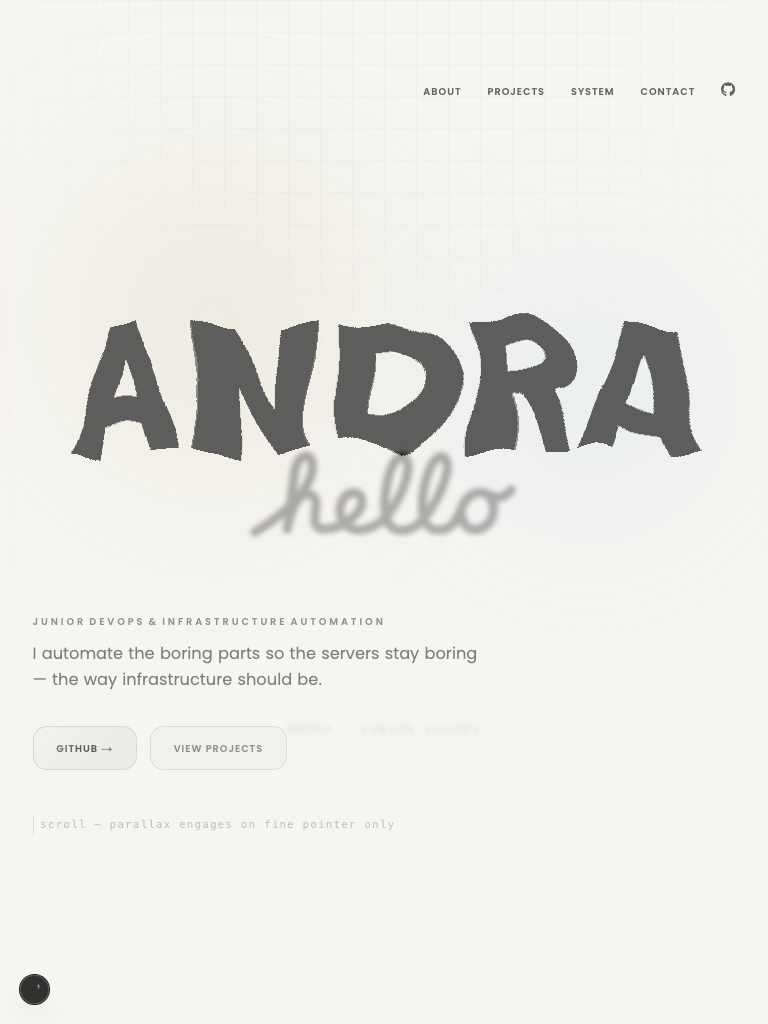
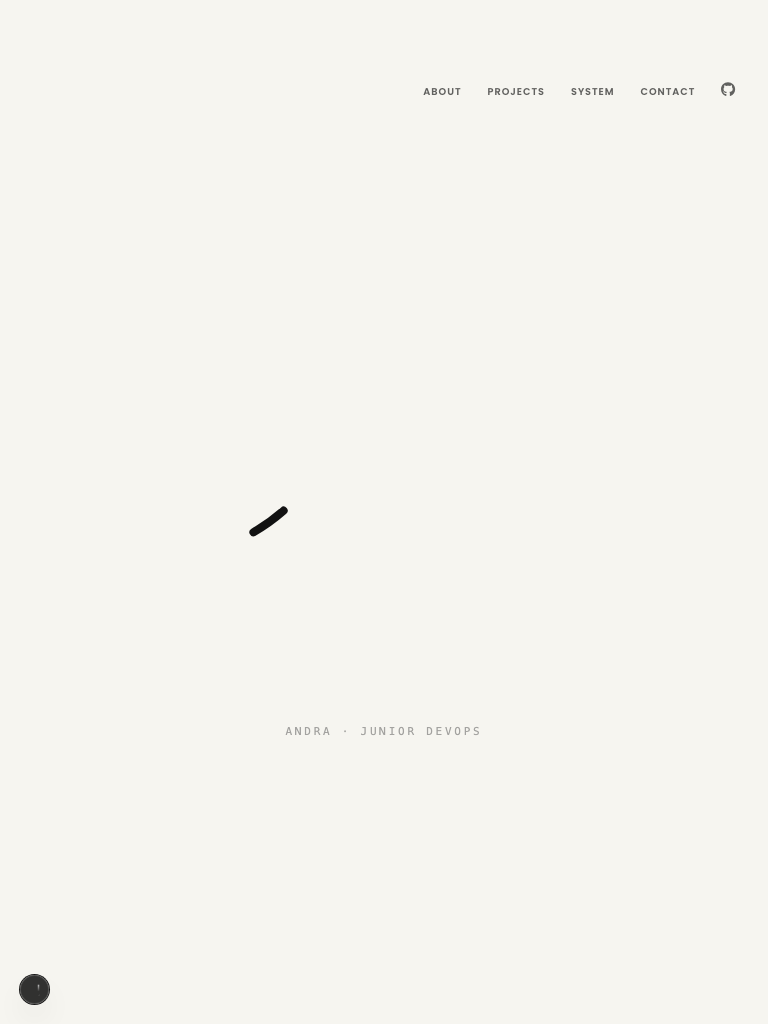
fix: ensure Apple hello animation plays on every page load with native SMIL path

diff --git a/components/AppleHelloLoader.tsx b/components/AppleHelloLoader.tsx
@@ -1,6 +1,6 @@
 "use client";
 
-import React, { useEffect, useState } from "react";
+import React, { useEffect, useState, useCallback } from "react";
 import { motion, AnimatePresence, useReducedMotion } from "framer-motion";
 
 interface AppleHelloLoaderProps {
@@ -19,10 +19,10 @@ export default function AppleHelloLoader({
   const shouldReduceMotion = useReducedMotion();
   const [visible, setVisible] = useState(isLoading);
 
-  const handleFinish = () => {
+  const handleFinish = useCallback(() => {
     if (onComplete) onComplete();
     if (onFinish) onFinish();
-  };
+  }, [onComplete, onFinish]);
 
   useEffect(() => {
     if (!isLoading) {
@@ -31,14 +31,14 @@ export default function AppleHelloLoader({
     }
 
     setVisible(true);
-    // 1.4s stroke drawing + 0.4s dwell hold
-    const durationMs = shouldReduceMotion ? 150 : 1800;
+    // 2.2s total duration for calibrated Apple SMIL drawing + dwell
+    const durationMs = shouldReduceMotion ? 150 : 2200;
     const timer = setTimeout(() => {
       handleFinish();
     }, durationMs);
 
     return () => clearTimeout(timer);
-  }, [isLoading, shouldReduceMotion]);
+  }, [isLoading, shouldReduceMotion, handleFinish]);
 
   return (
     <AnimatePresence
@@ -46,6 +46,7 @@ export default function AppleHelloLoader({
       onExitComplete={() => {
         if (typeof document !== "undefined") {
           document.body.style.overflow = "unset";
+          document.documentElement.style.overflow = "unset";
         }
         if (onExitComplete) onExitComplete();
       }}
@@ -73,27 +74,65 @@ export default function AppleHelloLoader({
             >
               <g transform="matrix(1.087,0,0,1.087,-21.135,-19.235)" id="i1">
                 <g id="i2" transform="matrix(1,0,0,1,252,245.918)">
-                  <motion.path
+                  <path
                     data-testid="hello-path"
+                    strokeDasharray="0 100"
+                    pathLength="100"
                     d="M-145.66,43.747C-145.66,43.747,-86.107,10.264,-81.851,-26.162C-79.424,-46.943,-98.573,-44.137,-101.426,-23.013C-103.757,-5.755,-109.596,40.561,-109.596,40.561C-109.596,40.561,-103.979,-0.034,-85.851,1.753C-65.936,4.083,-91.979,40.05,-69,40.305C-48.573,40.532,-27.639,22.688,-26.873,10.943C-25.99,-2.599,-44.362,-4.886,-50.022,11.966C-55.226,27.461,-43.584,44.902,-23.54,40.581C7.341,33.922,22.483,-10.827,23.936,-26.077C25.467,-42.162,13.723,-43.694,6.574,-29.397C-0.104,-16.04,-11.245,37.085,12.958,41.583C41.809,46.944,64.277,-5.906,67.086,-23.779C69.802,-41.066,58.656,-45.952,50.234,-30.673C41.166,-14.223,27.843,44.077,59.937,41.326C86.746,39.028,76.916,2.264,102.898,-0.05C114.562,-1.088,119.386,9.92,118.532,21.029C117.638,32.646,106.66,42.475,95.809,40.943C85.898,39.544,80.838,25.973,83.425,17.072C86.617,6.094,96.662,0.12,102.898,-0.05C111.766,-0.29,116.234,5.327,124.149,5.199C131.179,5.086,138.27,-2.922,138.27,-2.922"
-                    stroke="currentColor"
-                    strokeWidth="10"
-                    strokeLinecap="round"
                     strokeLinejoin="round"
-                    initial={
-                      shouldReduceMotion
-                        ? { pathLength: 1, opacity: 1 }
-                        : { pathLength: 0, opacity: 0 }
-                    }
-                    animate={{ pathLength: 1, opacity: 1 }}
-                    transition={{
-                      pathLength: {
-                        duration: shouldReduceMotion ? 0.05 : 1.4,
-                        ease: [0.65, 0, 0.35, 1],
-                      },
-                      opacity: { duration: 0.2 },
-                    }}
-                  />
+                    strokeLinecap="round"
+                    strokeWidth="9"
+                    stroke="currentColor"
+                  >
+                    {!shouldReduceMotion && (
+                      <>
+                        <animate
+                          repeatCount="indefinite"
+                          attributeName="stroke-width"
+                          dur="2.2s"
+                          begin="0s"
+                          fill="freeze"
+                          values="9; 9; 10; 9; 9"
+                          keyTimes="0; 0.034722; 0.101389; 0.416667; 1"
+                          keySplines="0 0 1 1; 0.681 0 0.788 1; 0.059 0 0.118 1; 0 0 1 1"
+                          calcMode="spline"
+                        />
+                        <animate
+                          repeatCount="indefinite"
+                          attributeName="d"
+                          dur="2.2s"
+                          begin="0s"
+                          calcMode="spline"
+                          values="M-145.66,43.747C-145.66,43.747,-86.107,10.264,-81.851,-26.162C-79.424,-46.943,-98.573,-44.137,-101.426,-23.013C-103.757,-5.755,-109.596,40.561,-109.596,40.561C-109.596,40.561,-103.979,-0.034,-85.851,1.753C-65.936,4.083,-91.979,40.05,-69,40.305C-48.573,40.532,-27.639,22.688,-26.873,10.943C-25.99,-2.599,-44.362,-4.886,-50.022,11.966C-55.226,27.461,-43.584,44.902,-23.54,40.581C7.341,33.922,22.483,-10.827,23.936,-26.077C25.467,-42.162,13.723,-43.694,6.574,-29.397C-0.104,-16.04,-11.245,37.085,12.958,41.583C41.809,46.944,64.277,-5.906,67.086,-23.779C69.802,-41.066,58.656,-45.952,50.234,-30.673C41.166,-14.223,27.843,44.077,59.937,41.326C86.746,39.028,76.916,2.264,102.898,-0.05C114.562,-1.088,119.386,9.92,118.532,21.029C117.638,32.646,106.66,42.475,95.809,40.943C85.898,39.544,80.838,25.973,83.425,17.072C86.617,6.094,96.662,0.12,102.898,-0.05C111.766,-0.29,116.234,5.327,124.149,5.199C131.179,5.086,138.27,-2.922,138.27,-2.922; M-145.66,43.747C-145.66,43.747,-86.107,10.264,-81.851,-26.162C-79.424,-46.943,-98.573,-44.137,-101.426,-23.013C-103.757,-5.755,-109.596,40.561,-109.596,40.561C-109.596,40.561,-103.979,-0.034,-85.851,1.753C-65.936,4.083,-91.979,40.05,-69,40.305C-48.573,40.532,-27.639,22.688,-26.873,10.943C-25.99,-2.599,-44.362,-4.886,-50.022,11.966C-55.226,27.461,-43.584,44.902,-23.54,40.581C7.341,33.922,22.483,-10.827,23.936,-26.077C25.467,-42.162,13.723,-43.694,6.574,-29.397C-0.104,-16.04,-11.245,37.085,12.958,41.583C41.809,46.944,64.277,-5.906,67.086,-23.779C69.802,-41.066,58.656,-45.952,50.234,-30.673C41.166,-14.223,27.843,44.077,59.937,41.326C86.746,39.028,76.916,2.264,102.898,-0.05C114.562,-1.088,119.386,9.92,118.532,21.029C117.638,32.646,106.66,42.475,95.809,40.943C85.898,39.544,80.838,25.973,83.425,17.072C86.617,6.094,96.662,0.12,102.898,-0.05C111.766,-0.29,116.234,5.327,124.149,5.199C131.179,5.086,138.27,-2.922,138.27,-2.922; M-145.66,43.747C-145.66,43.747,-86.107,10.264,-81.851,-26.162C-79.424,-46.943,-98.573,-44.137,-101.426,-23.013C-103.757,-5.755,-109.596,40.561,-109.596,40.561C-109.596,40.561,-103.979,-0.034,-85.851,1.753C-65.936,4.083,-91.978,40.05,-68.999,40.305C-48.572,40.532,-27.639,22.688,-26.873,10.943C-25.99,-2.599,-44.362,-4.886,-50.022,11.966C-55.226,27.461,-43.584,44.902,-23.54,40.581C7.341,33.922,22.483,-10.827,23.936,-26.077C25.467,-42.162,13.723,-43.694,6.574,-29.397C-0.104,-16.04,-11.245,37.085,12.958,41.583C41.809,46.944,64.277,-5.906,67.086,-23.779C69.802,-41.066,58.656,-45.952,50.234,-30.673C41.166,-14.223,27.843,44.077,59.937,41.326C86.746,39.028,76.916,2.264,102.898,-0.05C114.562,-1.088,119.386,9.92,118.532,21.029C117.638,32.646,106.66,42.475,95.809,40.943C85.898,39.544,80.838,25.973,83.425,17.072C86.617,6.094,96.662,0.12,102.898,-0.05C111.766,-0.29,116.234,5.327,124.149,5.199C131.179,5.086,136.66,-1.311,136.66,-1.311; M-145.66,43.747C-145.66,43.747,-86.107,10.264,-81.851,-26.162C-79.424,-46.943,-98.573,-44.137,-101.426,-23.013C-103.757,-5.755,-109.596,40.561,-109.596,40.561C-109.596,40.561,-103.979,-0.034,-85.851,1.753C-65.936,4.083,-91.978,40.05,-68.999,40.305C-48.572,40.532,-27.639,22.688,-26.873,10.943C-25.99,-2.599,-44.362,-4.886,-50.022,11.966C-55.226,27.461,-43.584,44.902,-23.54,40.581C7.341,33.922,22.483,-10.827,23.936,-26.077C25.467,-42.162,13.723,-43.694,6.574,-29.397C-0.104,-16.04,-11.245,37.085,12.958,41.583C41.809,46.944,64.277,-5.906,67.086,-23.779C69.802,-41.066,58.656,-45.952,50.234,-30.673C41.166,-14.223,27.843,44.077,59.937,41.326C86.746,39.028,76.916,2.264,102.898,-0.05C114.562,-1.088,119.386,9.92,118.532,21.029C117.638,32.646,106.66,42.475,95.809,40.943C85.898,39.544,80.838,25.973,83.425,17.072C86.617,6.094,96.662,0.12,102.898,-0.05C111.766,-0.29,116.234,5.327,124.149,5.199C131.179,5.086,136.66,-1.311,136.66,-1.311"
+                          keyTimes="0; 0.416667; 0.518056; 1"
+                          keySplines="0 0 1 1; 0.281 0.613 0.596 1; 0 0 1 1"
+                          fill="freeze"
+                        />
+                        <animate
+                          repeatCount="indefinite"
+                          fill="freeze"
+                          begin="0s"
+                          dur="2.2s"
+                          calcMode="spline"
+                          keySplines="0 0 1 1; 0.302 0.14 0.665 1; 0.302 0.14 0.665 1; 0.302 0.14 0.665 1; 0.302 0.14 0.665 1; 0.302 0.14 0.665 1; 0.302 0.14 0.665 1; 0 0 1 1"
+                          keyTimes="0; 0.034722; 0.041667; 0.0625; 0.081944; 0.416667; 0.693056; 0.958333; 1"
+                          values="0 100; 0 100; 0.877 99.123; 4.288 95.712; 8.593 91.407; 99 1; 99 1; 0 100; 0 100"
+                          attributeName="stroke-dasharray"
+                        />
+                        <animate
+                          repeatCount="indefinite"
+                          fill="freeze"
+                          begin="0s"
+                          dur="2.2s"
+                          calcMode="spline"
+                          keySplines="0 0 1 1; 0.302 0.14 0.665 1; 0.302 0.14 0.665 1; 0.302 0.14 0.665 1; 0.302 0.14 0.665 1; 0.302 0.14 0.665 1; 0.302 0.14 0.665 1; 0 0 1 1"
+                          keyTimes="0; 0.034722; 0.041667; 0.0625; 0.081944; 0.416667; 0.693056; 0.958333; 1"
+                          values="0; 0; -0.048; -0.305; -0.452; -1; -1; 0; 0"
+                          attributeName="stroke-dashoffset"
+                        />
+                      </>
+                    )}
+                  </path>
                 </g>
               </g>
             </svg>
@@ -103,7 +142,7 @@ export default function AppleHelloLoader({
               initial={{ opacity: 0, y: 6 }}
               animate={{ opacity: 0.5, y: 0 }}
               transition={{
-                delay: shouldReduceMotion ? 0 : 0.9,
+                delay: shouldReduceMotion ? 0 : 0.8,
                 duration: shouldReduceMotion ? 0.05 : 0.5,
               }}
               className="mt-6 font-mono text-[11px] tracking-[0.25em] uppercase text-neutral-600 dark:text-neutral-400"
@@ -116,4 +155,3 @@ export default function AppleHelloLoader({
     </AnimatePresence>
   );
 }
-

diff --git a/tests/loading-screen.spec.ts b/tests/loading-screen.spec.ts
@@ -30,7 +30,7 @@ test.describe("Apple Hello Loading Screen Lifecycle & Verification", () => {
         } catch {}
       });
 
-      await page.goto("/", { waitUntil: "commit" });
+      await page.goto("/", { waitUntil: "domcontentloaded" });
 
       const loader = page.locator('[data-testid="loading-screen"]');
       const svg = page.locator('[data-testid="hello-svg"]');
@@ -47,13 +47,16 @@ test.describe("Apple Hello Loading Screen Lifecycle & Verification", () => {
       expect(pathData).toContain("M-145.66,43.747");
 
       // 2. Scroll lock check while loading
-      const isScrollLocked = await page.evaluate(() => {
-        return (
-          document.body.style.overflow === "hidden" ||
-          document.documentElement.style.overflow === "hidden"
-        );
-      });
-      expect(isScrollLocked).toBe(true);
+      await expect
+        .poll(async () => {
+          return page.evaluate(() => {
+            return (
+              document.body.style.overflow === "hidden" ||
+              document.documentElement.style.overflow === "hidden"
+            );
+          });
+        })
+        .toBe(true);
 
       // Capture loading state screenshot
       await page.screenshot({
@@ -100,33 +103,28 @@ test.describe("Apple Hello Loading Screen Lifecycle & Verification", () => {
     });
   }
 
-  test("Session intelligence prevents replay on subsequent navigation", async ({
+  test("Client navigation does not replay intro but reset/reload triggers intro", async ({
     page,
   }) => {
-    // 1. First visit: clears storage and completes intro
-    await page.addInitScript(() => {
-      sessionStorage.clear();
-    });
+    // 1. Initial visit: intro appears and completes
     await page.goto("/", { waitUntil: "domcontentloaded" });
-
     const loader = page.locator('[data-testid="loading-screen"]');
     await expect(loader).toBeVisible({ timeout: 5000 });
     await expect(loader).toBeHidden({ timeout: 10000 });
 
-    // Verify session flag is stored
-    const flag = await page.evaluate(() =>
-      sessionStorage.getItem("andra_intro_seen")
-    );
-    expect(flag).toBe("true");
+    // 2. Client-side navigation to /about: loader stays hidden
+    const aboutLink = page.locator('nav a[href="/about"], a[href="/about"]').first();
+    if (await aboutLink.count() > 0) {
+      await aboutLink.click();
+      await page.waitForURL("**/about");
+      const aboutLoader = page.locator('[data-testid="loading-screen"]');
+      await expect(aboutLoader).toHaveCount(0);
+    }
 
-    // 2. Subsequent page visit in same session: loader should not show up
-    await page.goto("/about", { waitUntil: "domcontentloaded" });
-    const aboutLoader = page.locator('[data-testid="loading-screen"]');
-    await expect(aboutLoader).toHaveCount(0);
-
-    // 3. Return to home: loader still absent
-    await page.goto("/", { waitUntil: "domcontentloaded" });
-    const homeLoader = page.locator('[data-testid="loading-screen"]');
-    await expect(homeLoader).toHaveCount(0);
+    // 3. Page reload: intro cleanly plays again
+    await page.reload({ waitUntil: "domcontentloaded" });
+    const reloadedLoader = page.locator('[data-testid="loading-screen"]');
+    await expect(reloadedLoader).toBeVisible({ timeout: 5000 });
+    await expect(reloadedLoader).toBeHidden({ timeout: 10000 });
   });
 });

diff --git a/components/LoadingProvider.tsx b/components/LoadingProvider.tsx
@@ -16,20 +16,20 @@ interface LoadingContextValue {
   isMounted: boolean;
   finishLoading: () => void;
   resetLoading: () => void;
+  replayLoading: () => void;
 }
 
 const LoadingContext = createContext<LoadingContextValue>({
-  isLoading: false,
+  isLoading: true,
   isMounted: false,
   finishLoading: () => {},
   resetLoading: () => {},
+  replayLoading: () => {},
 });
-
-const SESSION_KEY = "andra_intro_seen";
 
 export function LoadingProvider({ children }: { children: ReactNode }) {
   const [isMounted, setIsMounted] = useState(false);
-  const [isLoading, setIsLoading] = useState(false);
+  const [isLoading, setIsLoading] = useState(true);
   const scrollLockedRef = useRef(false);
 
   const lockScroll = useCallback(() => {
@@ -50,31 +50,15 @@ export function LoadingProvider({ children }: { children: ReactNode }) {
 
   useEffect(() => {
     setIsMounted(true);
-    let hasSeen = false;
-    try {
-      hasSeen = sessionStorage.getItem(SESSION_KEY) === "true";
-    } catch {
-      hasSeen = false;
-    }
-
-    if (!hasSeen) {
-      setIsLoading(true);
+    if (isLoading) {
       lockScroll();
-    } else {
-      setIsLoading(false);
     }
-
     return () => {
       unlockScroll();
     };
-  }, [lockScroll, unlockScroll]);
+  }, [isLoading, lockScroll, unlockScroll]);
 
   const finishLoading = useCallback(() => {
-    try {
-      sessionStorage.setItem(SESSION_KEY, "true");
-    } catch {
-      // Ignore storage errors in restricted contexts
-    }
     setIsLoading(false);
   }, []);
 
@@ -83,26 +67,25 @@ export function LoadingProvider({ children }: { children: ReactNode }) {
   }, [unlockScroll]);
 
   const resetLoading = useCallback(() => {
-    try {
-      sessionStorage.removeItem(SESSION_KEY);
-    } catch {
-      // Ignore
-    }
     setIsLoading(true);
     lockScroll();
   }, [lockScroll]);
 
   return (
     <LoadingContext.Provider
-      value={{ isLoading, isMounted, finishLoading, resetLoading }}
+      value={{
+        isLoading,
+        isMounted: true,
+        finishLoading,
+        resetLoading,
+        replayLoading: resetLoading,
+      }}
     >
-      {isMounted && (
-        <AppleHelloLoader
-          isLoading={isLoading}
-          onFinish={finishLoading}
-          onExitComplete={handleExitComplete}
-        />
-      )}
+      <AppleHelloLoader
+        isLoading={isLoading}
+        onFinish={finishLoading}
+        onExitComplete={handleExitComplete}
+      />
       {children}
     </LoadingContext.Provider>
   );

diff --git a/tests/visual-regression.spec.ts b/tests/visual-regression.spec.ts
@@ -38,7 +38,7 @@ test.describe("Visual Regression & Animation Lifecycle Suite", () => {
         } catch {}
       });
 
-      await page.goto("/", { waitUntil: "commit" });
+      await page.goto("/", { waitUntil: "domcontentloaded" });
 
       const loader = page.locator('[data-testid="loading-screen"]');
       const svg = page.locator('[data-testid="hello-svg"]');
@@ -50,13 +50,16 @@ test.describe("Visual Regression & Animation Lifecycle Suite", () => {
       await expect(helloPath).toBeVisible();
 
       // Scroll locked during loading
-      const isLocked = await page.evaluate(() => {
-        return (
-          document.body.style.overflow === "hidden" ||
-          document.documentElement.style.overflow === "hidden"
-        );
-      });
-      expect(isLocked).toBe(true);
+      await expect
+        .poll(async () => {
+          return page.evaluate(() => {
+            return (
+              document.body.style.overflow === "hidden" ||
+              document.documentElement.style.overflow === "hidden"
+            );
+          });
+        })
+        .toBe(true);
 
       // Capture active SVG writing animation screenshot
       const activeAnimPath = path.join(
